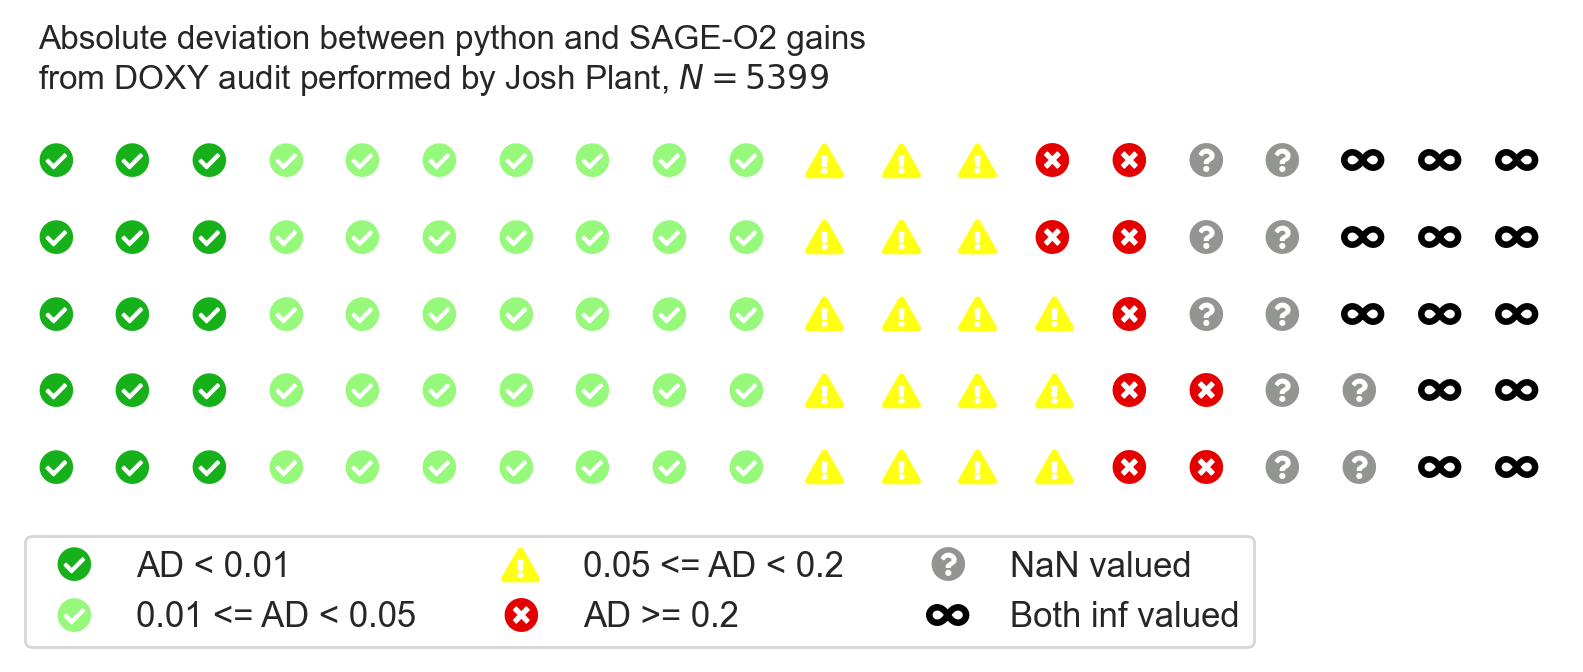
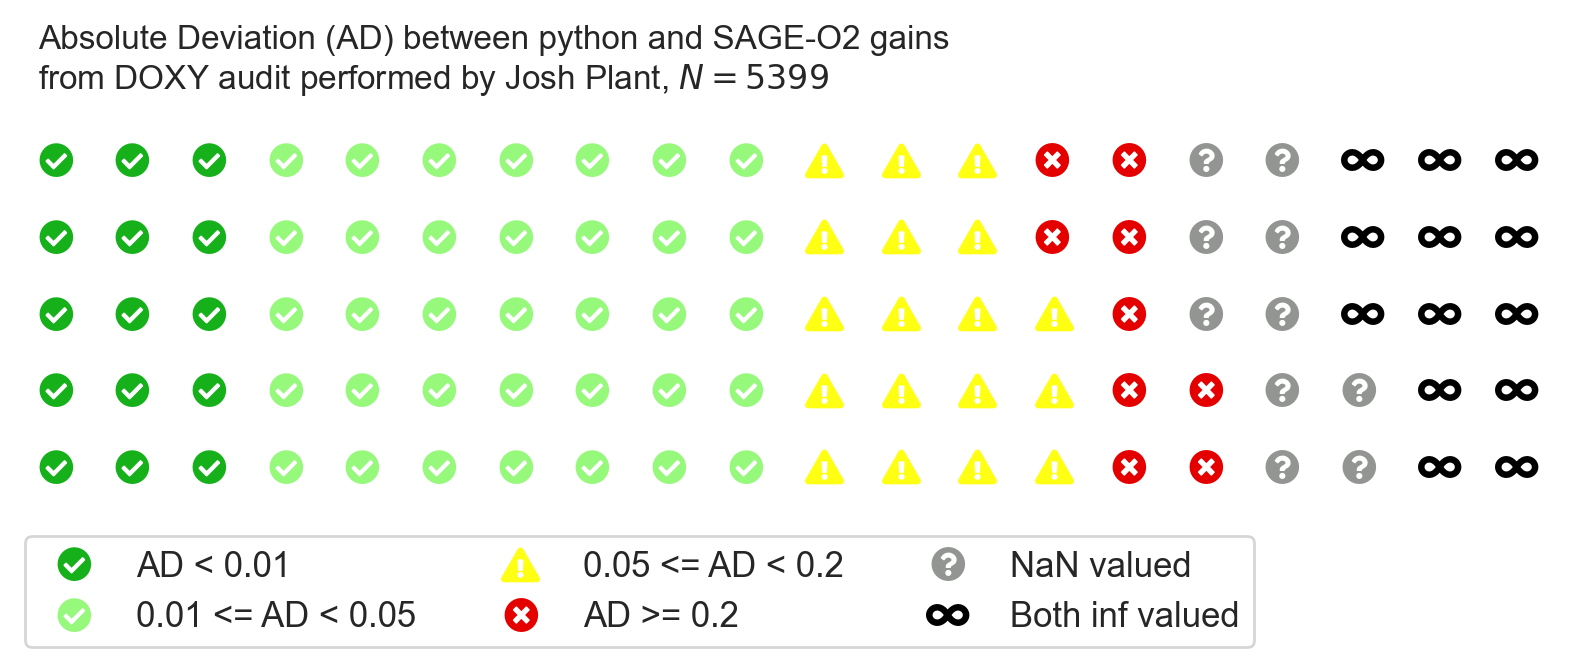
title change

Changed region(s): [[0.0929, 0.0312, 0.5881, 0.0938]]

diff --git a/validation/high_level_doxy_audit_figs.py b/validation/high_level_doxy_audit_figs.py
@@ -46,6 +46,6 @@ plt.close()
 
 waf = plt.figure(FigureClass=Waffle, rows=5, values=counts[' '].round().values, labels=list(counts.name), colors=tuple(palette), 
     icons=['check-circle', 'check-circle', 'exclamation-triangle', 'times-circle', 'question-circle', 'infinity'], icon_legend=True, icon_size=10,
-    title={'label': 'Absolute deviation between python and SAGE-O2 gains\nfrom DOXY audit performed by Josh Plant, $N={:d}$'.format(df.shape[0]), 'loc': 'left'}, legend={'loc': 3, 'bbox_to_anchor': (-0.02, -0.5), 'ncol': 3, 'fontsize': 10})
+    title={'label': 'Absolute Deviation (AD) between python and SAGE-O2 gains\nfrom DOXY audit performed by Josh Plant, $N={:d}$'.format(df.shape[0]), 'loc': 'left'}, legend={'loc': 3, 'bbox_to_anchor': (-0.02, -0.5), 'ncol': 3, 'fontsize': 10})
 plt.savefig('../figures/doxy_audit/DOXY_audit_comparison_waffle.png', bbox_inches='tight', dpi=250)
 plt.close()
